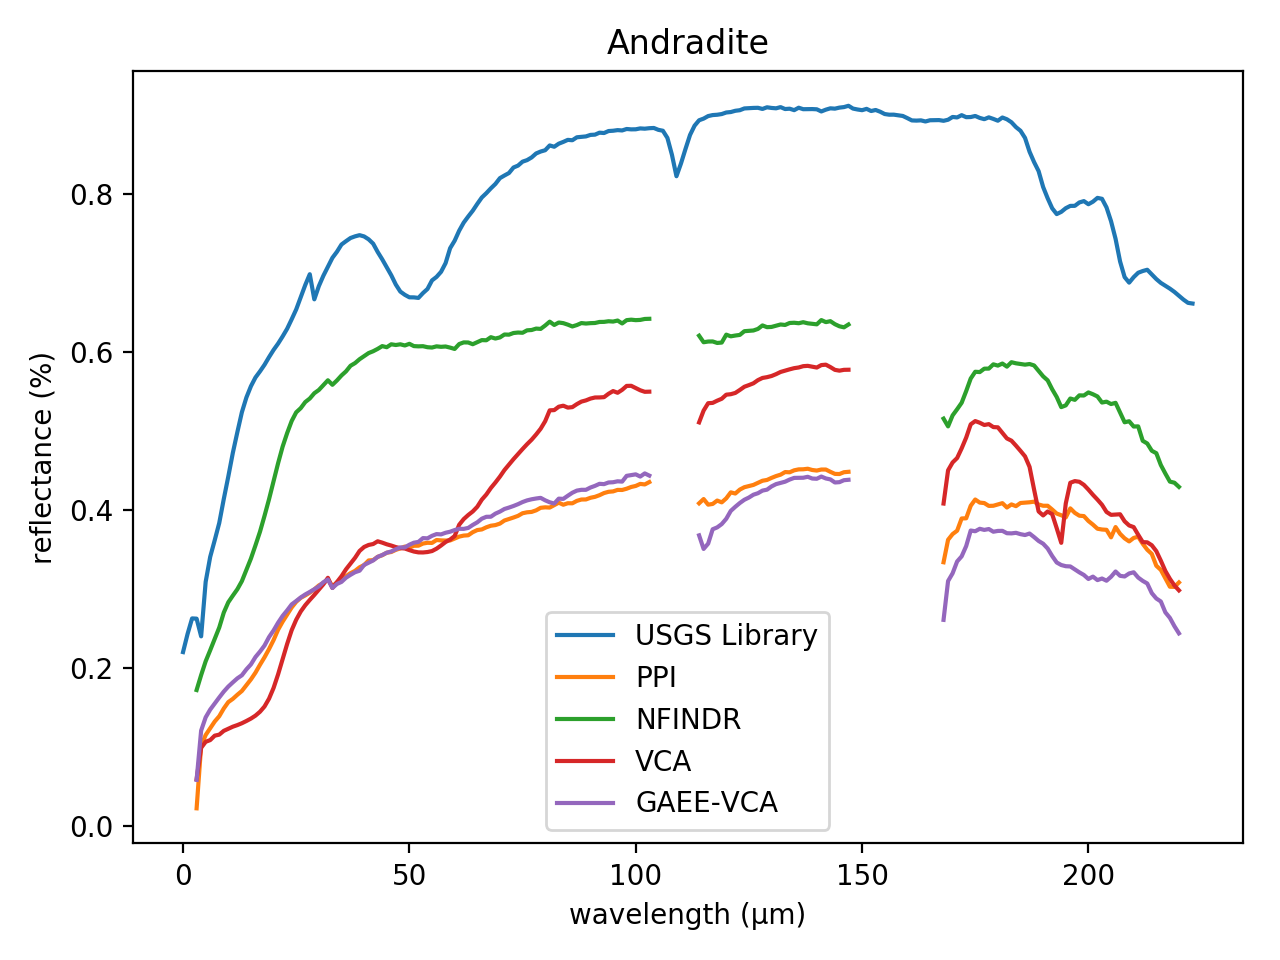
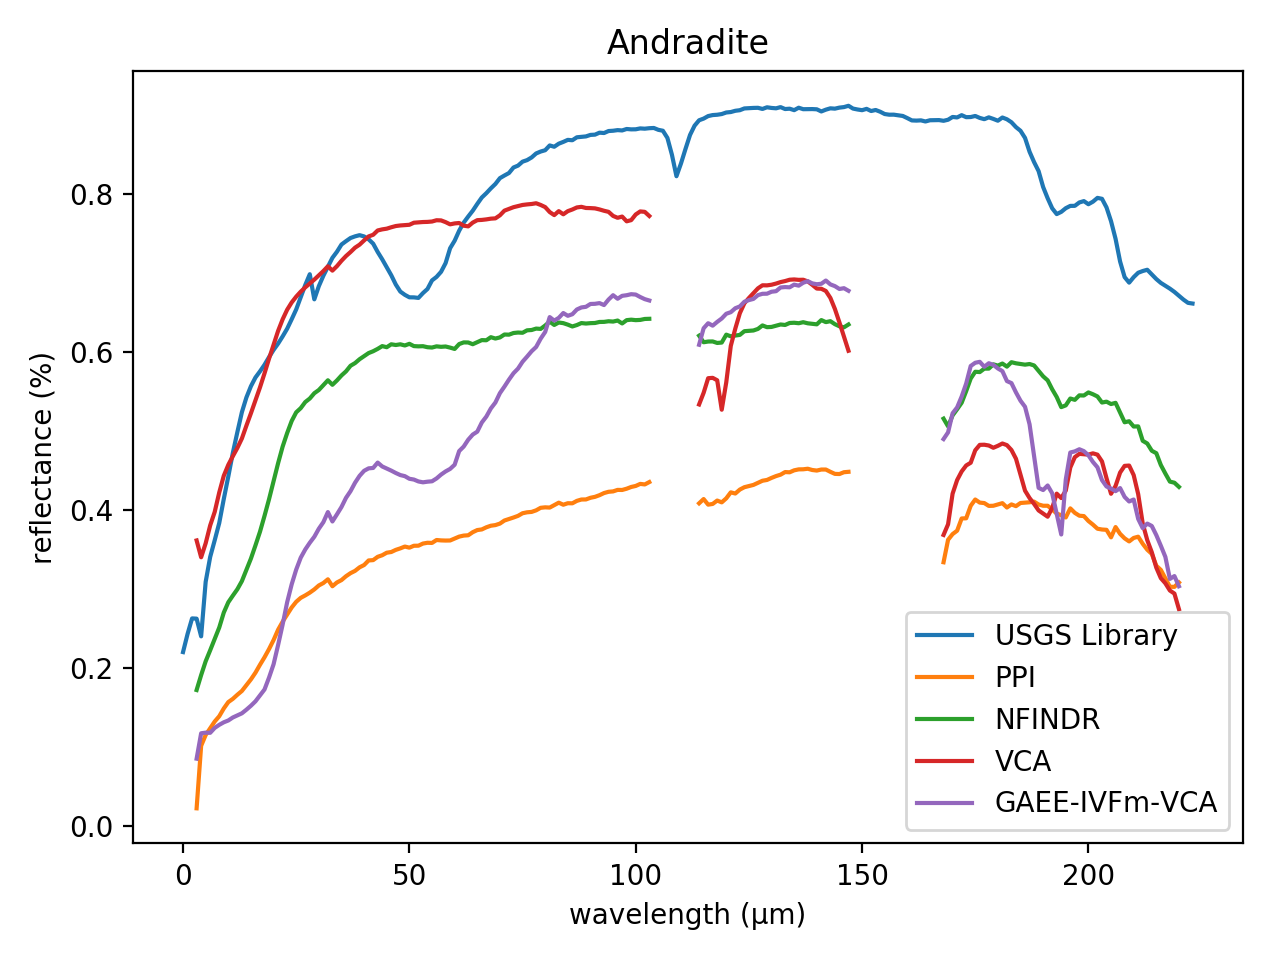
Endmembers Plot

diff --git a/DEMO.py b/DEMO.py
@@ -538,10 +538,10 @@ def run():
 	for l in algo:
 		p = stats.ttest_ind(np.mean(vca.sam_all_runs_value,axis=1),np.mean(l.sam_all_runs_value,axis=1))
 		tab1_sam[l.name] = l.sam_values_min
-		tab4_sam_stats[l.name] = [np.mean(l.sam_mean), np.mean(l.sam_std), p[0], (100*np.mean(best_gaee.sam_mean)/np.mean(l.sam_mean))-100, np.mean(l.time_runs)]
+		tab4_sam_stats[l.name] = [np.mean(l.sam_mean), np.mean(l.sam_std), p[0], 100-(100*np.mean(best_gaee.sam_mean)/np.mean(l.sam_mean)), np.mean(l.time_runs)]
 		p = stats.ttest_ind(np.mean(vca.sid_all_runs_value,axis=1),np.mean(l.sid_all_runs_value,axis=1))
 		tab2_sid[l.name] = l.sid_values_min
-		tab5_sid_stats[l.name] = [np.mean(l.sid_mean), np.mean(l.sid_std), p[0],(100*np.mean(best_gaee.sam_mean)/np.mean(l.sam_mean))-100 ,np.mean(l.time_runs)]
+		tab5_sid_stats[l.name] = [np.mean(l.sid_mean), np.mean(l.sid_std), p[0],100-(100*np.mean(best_gaee.sam_mean)/np.mean(l.sam_mean)) ,np.mean(l.time_runs)]
 
 
 	file.write('### Comparison between the ground-truth Laboratory Reflectances and extracted endmembers using PPI, N-FINDR, VCA, GAEE, GAEE-IVFm using SAM for the Cuprite Dataset.\n\n')

diff --git a/README.md b/README.md
@@ -29,55 +29,55 @@ Maximum number of iterations (N-FINDR): 1
 
 | Endmembers       |    PPI |   NFINDR |    VCA |   GAEE |   GAEE-IVFm |   GAEE-VCA |   GAEE-IVFm-VCA |
 |:-----------------|-------:|---------:|-------:|-------:|------------:|-----------:|----------------:|
-| Alunite          | 0.3744 |   0.0926 | **0.0914** | 0.1433 |      0.2828 |     0.1043 |          0.1043 |
-| Andradite        | 0.0758 |   **0.0725** | 0.0921 | 0.0750 |      0.0782 |     0.0947 |          0.0959 |
-| Buddingtonite    | 0.2081 |   **0.0762** | 0.0786 | 0.1528 |      0.1181 |     **0.0762** |          **0.0762** |
-| Dumortierite     | 0.1907 |   0.0720 | **0.0708** | 0.0757 |      0.0789 |     0.0721 |          0.0721 |
-| Kaolinite_1      | **0.0795** |   0.0870 | 0.0862 | 0.1067 |      0.0876 |     0.0811 |          0.0811 |
-| Kaolinite_2      | 0.0820 |   0.0889 | 0.0844 | 0.0809 |      **0.0619** |     0.0815 |          0.0835 |
-| Muscovite        | 0.2506 |   **0.1091** | 0.1205 | 0.2084 |      0.1883 |     0.1211 |          0.1766 |
-| Montmonrillonite | 0.1338 |   0.0648 | 0.0643 | 0.0953 |      **0.0625** |     0.0652 |          0.0704 |
-| Nontronite       | 0.1033 |   0.0758 | 0.0930 | **0.0730** |      0.0844 |     0.0843 |          0.0744 |
-| Pyrope           | 0.0579 |   0.1222 | 0.2768 | 0.0670 |      0.0700 |     **0.0516** |          0.0605 |
-| Sphene           | **0.0673** |   0.2857 | 0.0686 | 0.0724 |      0.0727 |     0.2213 |          0.2213 |
-| Chalcedony       | 0.0871 |   0.0871 | 0.0761 | 0.1301 |      0.1455 |     **0.0752** |          **0.0752** |
+| Alunite          | 0.3744 |   **0.0926** | 0.1016 | 0.1332 |      0.2669 |     0.1034 |          0.1034 |
+| Andradite        | 0.0758 |   0.0725 | 0.0921 | 0.0911 |      **0.0637** |     0.0739 |          0.0815 |
+| Buddingtonite    | 0.2081 |   **0.0762** | 0.0786 | 0.0950 |      0.1258 |     0.0897 |          0.0897 |
+| Dumortierite     | 0.1907 |   0.0720 | **0.0708** | 0.0791 |      0.0813 |     0.0919 |          0.0919 |
+| Kaolinite_1      | **0.0795** |   0.0870 | 0.0862 | 0.0886 |      0.1139 |     0.0870 |          0.0870 |
+| Kaolinite_2      | 0.0820 |   0.0889 | 0.0797 | 0.0644 |      **0.0627** |     0.0668 |          0.0811 |
+| Muscovite        | 0.2506 |   **0.1091** | 0.1205 | 0.1566 |      0.1689 |     0.1114 |          0.1114 |
+| Montmonrillonite | 0.1338 |   0.0648 | **0.0643** | 0.0665 |      0.0698 |     0.0646 |          0.0646 |
+| Nontronite       | 0.1033 |   **0.0758** | 0.1060 | 0.0776 |      0.0793 |     0.0804 |          0.0942 |
+| Pyrope           | 0.0579 |   0.1222 | 0.2367 | 0.0613 |      0.0711 |     **0.0565** |          0.1902 |
+| Sphene           | 0.0673 |   0.2857 | 0.0834 | 0.1928 |      0.1610 |     0.1443 |          **0.0627** |
+| Chalcedony       | **0.0871** |   **0.0871** | 0.0878 | 0.1371 |      0.1092 |     **0.0871** |          **0.0871** |
 
 ### SAM Statistics for Cuprite Dataset. 
 
-| Statistics   |       PPI |   NFINDR |     VCA |     GAEE |   GAEE-IVFm |   GAEE-VCA |   GAEE-IVFm-VCA |
-|:-------------|----------:|---------:|--------:|---------:|------------:|-----------:|----------------:|
-| _Mean_       |    0.1425 |   0.1059 |  0.1003 |   0.1083 |      0.1147 |     **0.0950** |          0.1004 |
-| _Std_        |    **0.0000** |   0.0086 |  0.0198 |   0.0142 |      0.0055 |     0.0070 |          0.0011 |
-| _p-value_    | -406.5868 |  -1.7977 |  0.0000 |  -5.0958 |     -3.8004 |     5.4148 |         **-0.0812** |
-| Gain         |  -33.3398 | **-10.3123** | -5.2998 | -12.2245 |    -17.1464 |     0.0000 |         -5.3879 |
-| _Time_       |    0.2523 |   3.8492 |  0.7061 |   0.2528 |      0.2459 |     **0.2334** |          0.2467 |
+| Statistics   |      PPI |   NFINDR |    VCA |    GAEE |   GAEE-IVFm |   GAEE-VCA |   GAEE-IVFm-VCA |
+|:-------------|---------:|---------:|-------:|--------:|------------:|-----------:|----------------:|
+| _Mean_       |   0.1425 |   0.1059 | 0.1022 |  0.1067 |      0.1179 |     0.0987 |          **0.0982** |
+| _Std_        |   **0.0000** |   0.0086 | 0.0030 |  0.0100 |      0.0147 |     0.0107 |          0.0152 |
+| _p-value_    | -25.7788 |  **-1.0692** | 0.0000 | -1.2952 |     -4.1462 |     0.3285 |          1.2291 |
+| Gain         |  31.0808 |   7.2730 | 3.8898 |  7.8910 |     16.6756 |     0.4602 |          **0.0000** |
+| _Time_       |   0.3295 |   4.1457 | 0.7222 |  0.2550 |      0.2399 |     0.2391 |          **0.2237** |
 
 ### Comparison between the ground-truth Laboratory Reflectances and extracted endmembers using PPI, N-FINDR, VCA, GAEE, GAEE-IVFm using SID for the Cuprite Dataset.
 
 | Endmembers       |    PPI |   NFINDR |    VCA |   GAEE |   GAEE-IVFm |   GAEE-VCA |   GAEE-IVFm-VCA |
 |:-----------------|-------:|---------:|-------:|-------:|------------:|-----------:|----------------:|
-| Alunite          | **0.0000** |   **0.0000** | 0.0105 | **0.0000** |      **0.0000** |     0.0145 |          0.0145 |
-| Andradite        | **0.0000** |   0.0062 | 0.0156 | 0.0055 |      **0.0000** |     0.0098 |          0.0139 |
-| Buddingtonite    | 0.0477 |   0.0072 | 0.0077 | 0.0196 |      **0.0000** |     0.0072 |          0.0072 |
-| Dumortierite     | 0.0562 |   0.0069 | 0.0075 | 0.0207 |      **0.0000** |     0.0143 |          0.0075 |
-| Kaolinite_1      | 0.0114 |   0.0131 | **0.0108** | 0.0126 |      0.0113 |     0.0126 |          0.0126 |
-| Kaolinite_2      | 0.0114 |   0.0109 | 0.0057 | 0.0046 |      **0.0040** |     0.0048 |          0.0098 |
-| Muscovite        | 0.0969 |   0.0317 | **0.0187** | 0.0323 |      0.0272 |     0.0295 |          0.0420 |
-| Montmonrillonite | 0.0230 |   0.0049 | **0.0047** | 0.0050 |      0.0053 |     0.0052 |          0.0055 |
-| Nontronite       | 0.0126 |   0.0077 | 0.0087 | 0.0080 |      0.0082 |     0.0086 |          **0.0074** |
-| Pyrope           | **0.0071** |   0.0531 | 0.0098 | 0.0190 |      0.0180 |     0.0123 |          **0.0071** |
-| Sphene           | 0.0076 |   0.0912 | 0.0911 | **0.0075** |      0.0551 |     0.0303 |          0.0529 |
-| Chalcedony       | 0.0088 |   0.0088 | 0.0069 | 0.0302 |      0.0206 |     **0.0067** |          **0.0067** |
+| Alunite          | **0.0000** |   **0.0000** | 0.0133 | **0.0000** |      **0.0000** |     0.0137 |          0.0137 |
+| Andradite        | **0.0000** |   0.0062 | 0.0080 | **0.0000** |      **0.0000** |     0.0099 |          0.0185 |
+| Buddingtonite    | 0.0477 |   **0.0072** | 0.0077 | 0.0117 |      0.0163 |     0.0127 |          0.0097 |
+| Dumortierite     | 0.0562 |   **0.0069** | 0.0072 | 0.0095 |      0.0113 |     0.0114 |          0.0114 |
+| Kaolinite_1      | 0.0114 |   0.0131 | 0.0129 | 0.0170 |      0.0152 |     **0.0102** |          0.0114 |
+| Kaolinite_2      | 0.0114 |   0.0109 | 0.0081 | **0.0057** |      0.0064 |     0.0058 |          0.0076 |
+| Muscovite        | 0.0969 |   0.0317 | **0.0187** | 0.0297 |      0.0496 |     0.0189 |          0.0261 |
+| Montmonrillonite | 0.0230 |   0.0049 | 0.0047 | 0.0049 |      **0.0046** |     0.0047 |          0.0047 |
+| Nontronite       | 0.0126 |   0.0077 | 0.0133 | 0.0077 |      0.0085 |     0.0115 |          **0.0074** |
+| Pyrope           | 0.0071 |   0.0531 | 0.0624 | 0.0063 |      **0.0061** |     0.0154 |          0.0083 |
+| Sphene           | **0.0076** |   0.0912 | 0.0096 | 0.0529 |      0.0195 |     0.0529 |          0.0529 |
+| Chalcedony       | **0.0088** |   **0.0088** | 0.0090 | 0.0257 |      0.0501 |     **0.0088** |          **0.0088** |
 
 ### SID Statistics for Cuprite Dataset. 
 
-| Statistics   |      PPI |   NFINDR |     VCA |     GAEE |   GAEE-IVFm |   GAEE-VCA |   GAEE-IVFm-VCA |
-|:-------------|---------:|---------:|--------:|---------:|------------:|-----------:|----------------:|
-| _Mean_       |   0.0236 |   0.0227 |  0.0233 |   0.0159 |      0.0137 |     **0.0131** |          0.0178 |
-| _Std_        |   **0.0000** |   0.0033 |  0.0084 |   0.0042 |      0.0046 |     0.0026 |          0.0029 |
-| _p-value_    |  **-0.0453** |   0.0800 |  0.0000 |   1.0388 |      1.3858 |     1.4958 |          0.7724 |
-| Gain         | -33.3398 | **-10.3123** | -5.2998 | -12.2245 |    -17.1464 |     0.0000 |         -5.3879 |
-| _Time_       |   0.2523 |   3.8492 |  0.7061 |   0.2528 |      0.2459 |     **0.2334** |          0.2467 |
+| Statistics   |     PPI |   NFINDR |    VCA |   GAEE |   GAEE-IVFm |   GAEE-VCA |   GAEE-IVFm-VCA |
+|:-------------|--------:|---------:|-------:|-------:|------------:|-----------:|----------------:|
+| _Mean_       |  0.0236 |   0.0227 | 0.0216 | **0.0153** |      0.0158 |     0.0195 |          0.0172 |
+| _Std_        |  **0.0000** |   0.0033 | 0.0081 | 0.0014 |      0.0026 |     0.0068 |          0.0083 |
+| _p-value_    | -0.2773 |  **-0.1422** | 0.0000 | 0.8854 |      0.8249 |     0.2519 |          0.6077 |
+| Gain         | 31.0808 |   7.2730 | 3.8898 | 7.8910 |     16.6756 |     0.4602 |          **0.0000** |
+| _Time_       |  0.3295 |   4.1457 | 0.7222 | 0.2550 |      0.2399 |     0.2391 |          **0.2237** |
 
 ![alt text](./IMAGES/Alunite_Endmember.png)
 
